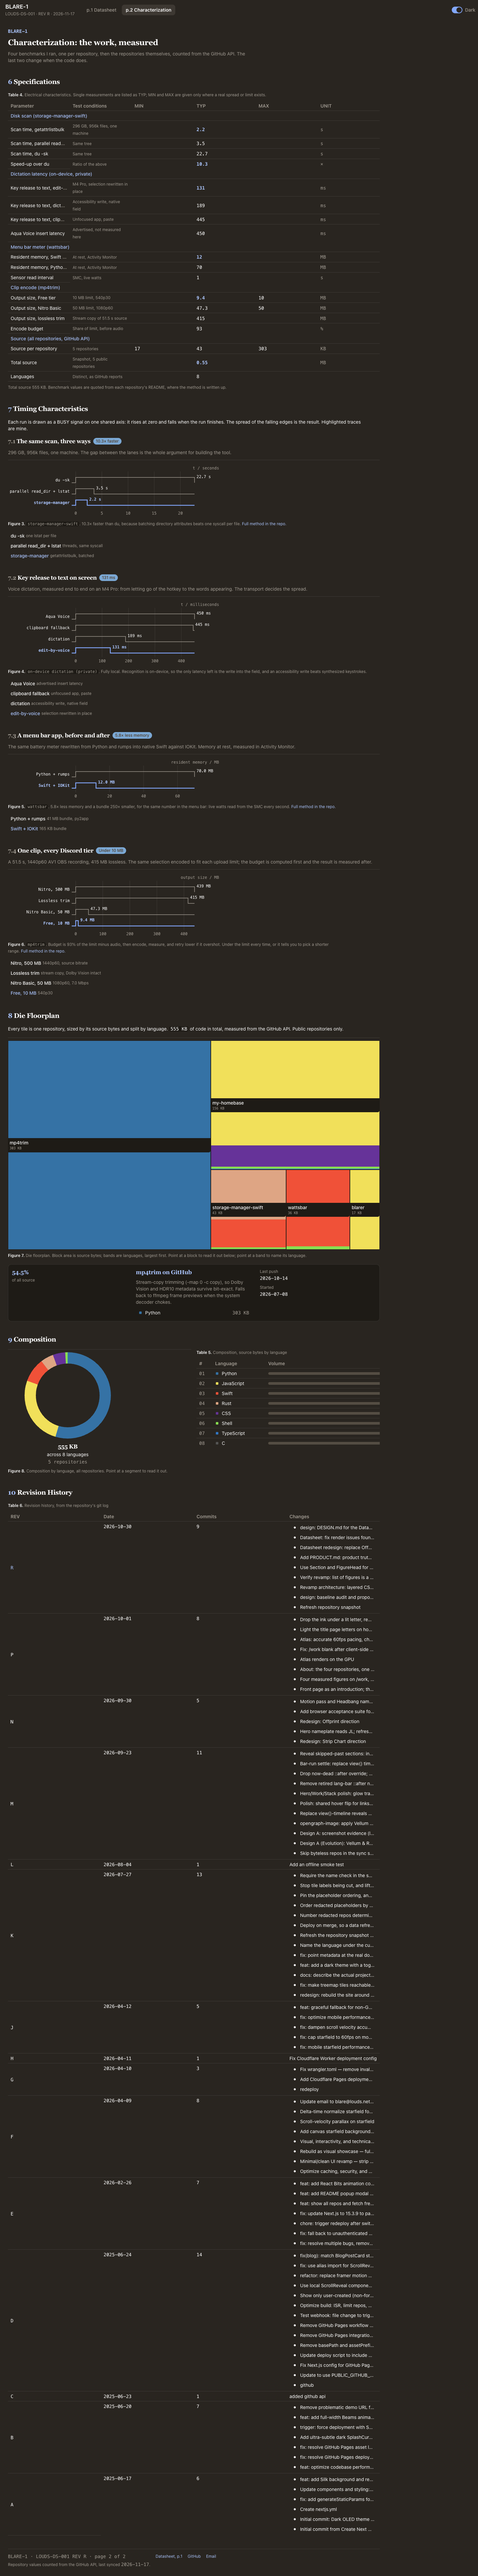
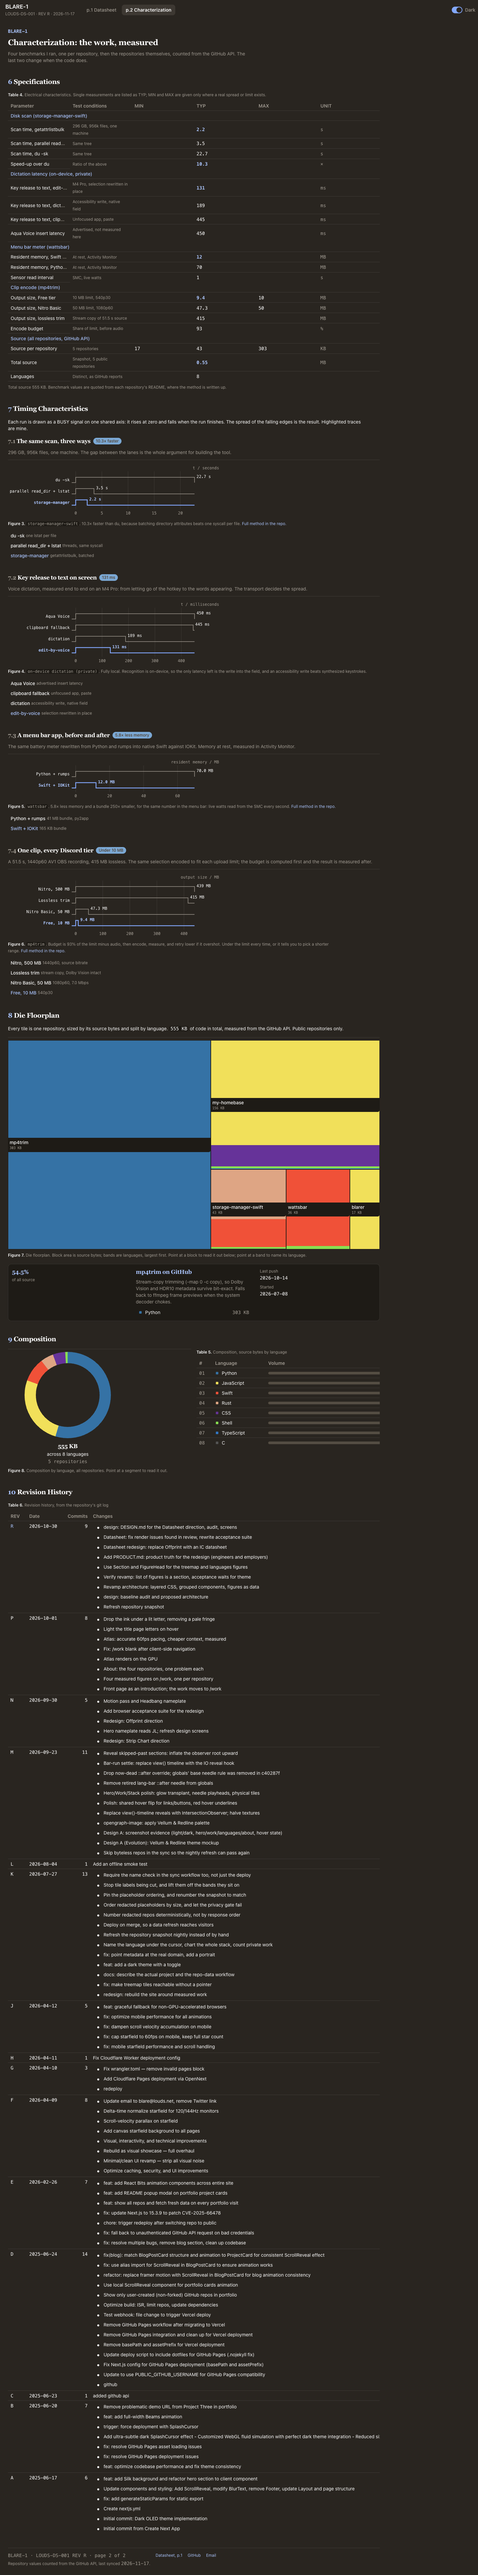
Give revision changes the table's full width
REV, Date and Commits are now narrow fixed columns, and Changes takes
the remaining width, so each change fits on one line on desktop. The
/work desktop capture drops from 10,199 to 7,758 px. The review
screenshots are re-shot.

Changed region(s): [[0.2188, 0.5927, 0.5, 0.967], [0.625, 0.5927, 0.7812, 0.967]]

diff --git a/components/work/RevisionHistory.jsx b/components/work/RevisionHistory.jsx
@@ -1,6 +1,8 @@
+'use client';
+
 import { Text } from '@astryxdesign/core/Text';
 import { List, ListItem } from '@astryxdesign/core/List';
-import { Table, TableHeader, TableBody, TableRow, TableHeaderCell, TableCell } from '@astryxdesign/core/Table';
+import { Table, proportional, pixel } from '@astryxdesign/core/Table';
 import { allRevisions } from '@/lib/revision';
 import { TableBlock } from '@/components/ui/Section';
 
@@ -8,44 +10,46 @@ import { TableBlock } from '@/components/ui/Section';
  * Table 6, the revision history, from git log (lib/revisions.json, written
  * by scripts/sync-revisions.mjs). One revision per working day, newest
  * first, as a datasheet prints its changes: every change listed in full,
- * newest first within the day.
+ * newest first within the day. REV, date and count are narrow fixed
+ * columns; the changes take the rest of the width.
  */
+const columns = [
+  {
+    key: 'rev',
+    header: 'REV',
+    width: pixel(56),
+    renderCell: (r) => <Text type="code" color={r.latest ? 'accent' : 'primary'}>{r.rev}</Text>,
+  },
+  { key: 'date', header: 'Date', width: pixel(112), renderCell: (r) => <Text type="code">{r.date}</Text> },
+  {
+    key: 'commits',
+    header: 'Commits',
+    width: pixel(80),
+    align: 'end',
+    renderCell: (r) => <Text type="code" hasTabularNumbers>{r.commits}</Text>,
+  },
+  {
+    key: 'subjects',
+    header: 'Changes',
+    width: proportional(1, { minWidth: 360 }),
+    renderCell: (r) =>
+      r.subjects.length === 1 ? (
+        <Text>{r.subjects[0]}</Text>
+      ) : (
+        <List density="compact" listStyle="disc">
+          {[...r.subjects].reverse().map((s, j) => (
+            <ListItem key={j} label={<Text textWrap="pretty">{s}</Text>} align="first-line" />
+          ))}
+        </List>
+      ),
+  },
+];
+
 export default function RevisionHistory() {
-  const revs = allRevisions();
+  const rows = allRevisions().map((r, i) => ({ ...r, id: r.rev, latest: i === 0 }));
   return (
     <TableBlock n={6} minWidth={640} caption="Revision history, from the repository's git log">
-      <Table density="compact" dividers="rows" verticalAlign="top">
-        <TableHeader>
-          <TableRow isHeaderRow>
-            <TableHeaderCell scope="col">REV</TableHeaderCell>
-            <TableHeaderCell scope="col">Date</TableHeaderCell>
-            <TableHeaderCell scope="col">Commits</TableHeaderCell>
-            <TableHeaderCell scope="col">Changes</TableHeaderCell>
-          </TableRow>
-        </TableHeader>
-        <TableBody>
-          {revs.map((r, i) => (
-            <TableRow key={r.rev}>
-              <TableHeaderCell scope="row">
-                <Text type="code" color={i === 0 ? 'accent' : 'primary'}>{r.rev}</Text>
-              </TableHeaderCell>
-              <TableCell><Text type="code">{r.date}</Text></TableCell>
-              <TableCell><Text type="code" hasTabularNumbers>{r.commits}</Text></TableCell>
-              <TableCell>
-                {r.subjects.length === 1 ? (
-                  <Text>{r.subjects[0]}</Text>
-                ) : (
-                  <List density="compact" listStyle="disc">
-                    {[...r.subjects].reverse().map((s, j) => (
-                      <ListItem key={j} label={<Text textWrap="pretty">{s}</Text>} align="first-line" />
-                    ))}
-                  </List>
-                )}
-              </TableCell>
-            </TableRow>
-          ))}
-        </TableBody>
-      </Table>
+      <Table data={rows} columns={columns} idKey="id" density="compact" dividers="rows" verticalAlign="top" />
     </TableBlock>
   );
 }
